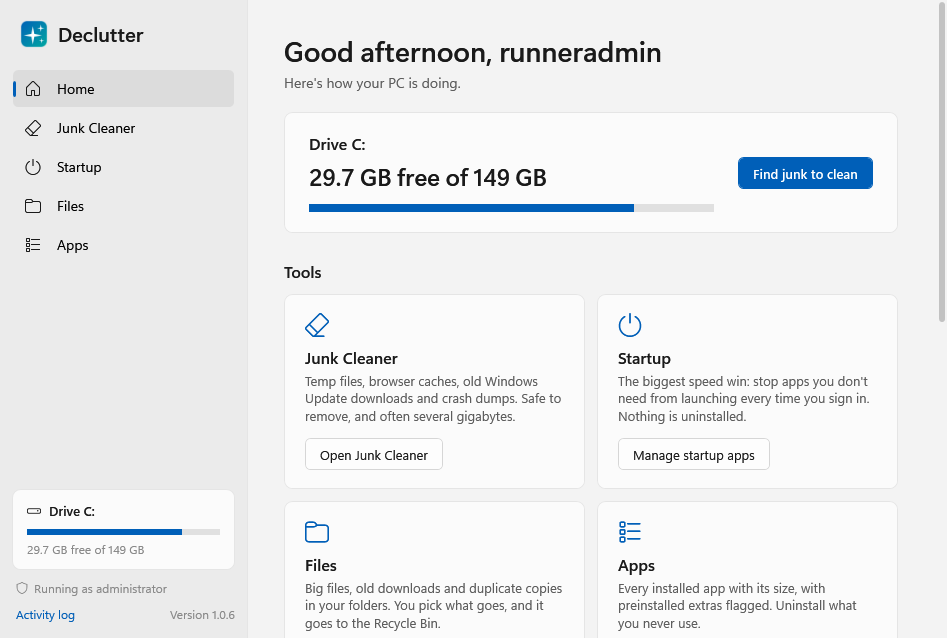
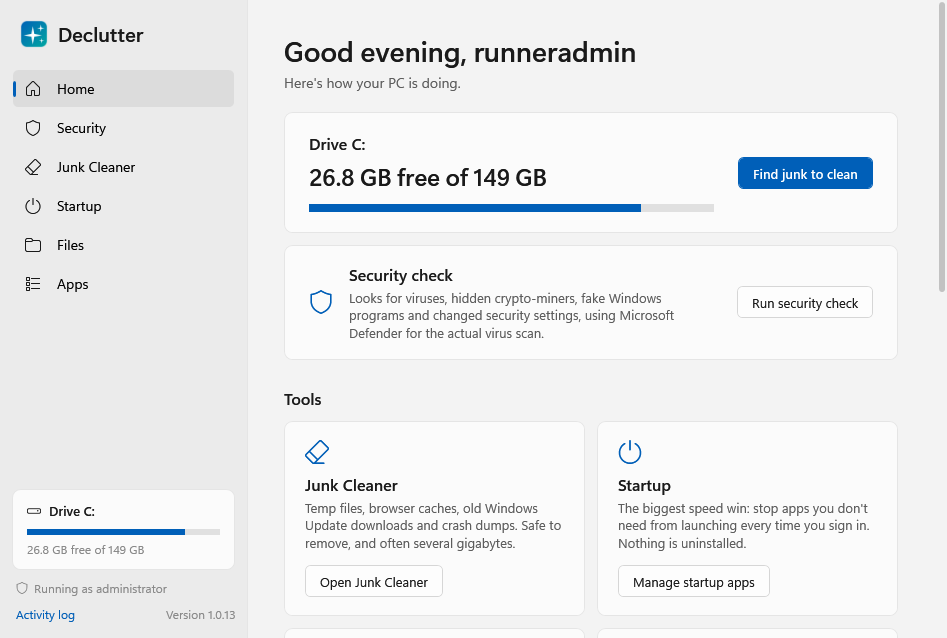
Add Security screenshot to README; stop attaching screenshots to releases
Claude-Session: https://claude.ai/code/session_01A2ra1Nh2yRE2hM2MiBHYhJ

diff --git a/README.md b/README.md
@@ -36,6 +36,8 @@ fresh Windows machine, which is why the numbers are small.
 
 ## Security check
 
+![Security check](docs/security.png)
+
 Declutter isn't an antivirus, and doesn't pretend to be. Real virus detection needs definitions that update
 every day, and Windows 11 already has a good engine: **Microsoft Defender**. The Security page shows whether
 Defender (or your other antivirus) is on and up to date, lists anything it has found, and runs a quick scan or a
